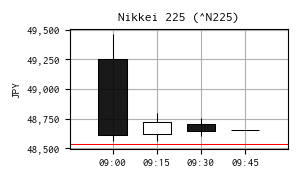
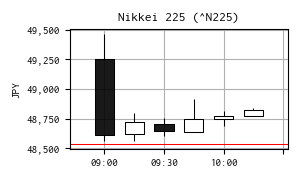
update

diff --git a/widgets/charts.py b/widgets/charts.py
@@ -107,13 +107,22 @@ class TickChart(Chart):
     def __init__(self, res: AppRes):
         super().__init__(res)
         # 余白設定
-        self.figure.subplots_adjust(left=0.075, right=0.99, top=0.9, bottom=0.08)
+        self.figure.subplots_adjust(
+            left=0.04,
+            right=0.998,
+            top=0.9,
+            bottom=0.08,
+        )
         # タイムスタンプへ時差を加算用（Asia/Tokyo)
         self.tz = 9. * 60 * 60
 
+        self.clearPlot()
+
     def clearPlot(self):
         self.ax.cla()
-        self.ax.xaxis.set_major_formatter(mdates.DateFormatter("%H:%M"))
+        self.ax.xaxis.set_major_formatter(
+            mdates.DateFormatter("%H:%M")
+        )
         self.ax.grid()
 
     def updateData(self, df: pd.DataFrame, title: str):

diff --git a/modules/prophet.py b/modules/prophet.py
@@ -43,6 +43,7 @@ class Prophet(QMainWindow):
         self.setWindowIcon(QIcon(os.path.join(res.dir_image, "inference.png")))
         title_win = f"{self.__app_name__} - {self.__version__}"
         self.setWindowTitle(title_win)
+        self.setFixedSize(1500, 500)
 
         # =====================================================================
         # ツールバー
